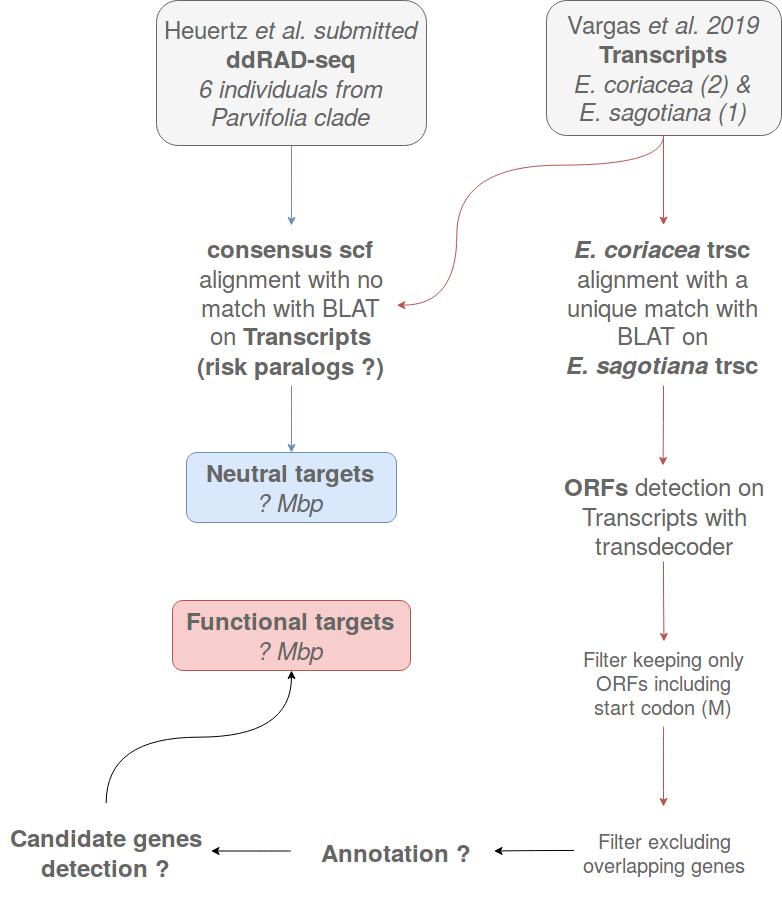
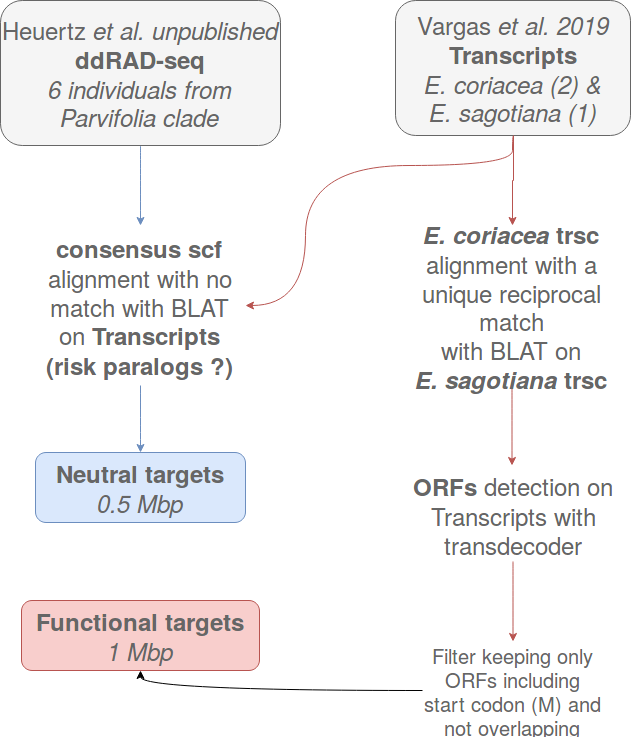
# PhD 0.1.9120 * parvicapture: funcitonal selection v1

diff --git a/NEWS.md b/NEWS.md
@@ -1,3 +1,6 @@
+# PhD 0.1.9120
+* parvicapture: funcitonal selection v1
+
 # PhD 0.1.9119
 * parvicapture: init & trscAlign on genologin
 
